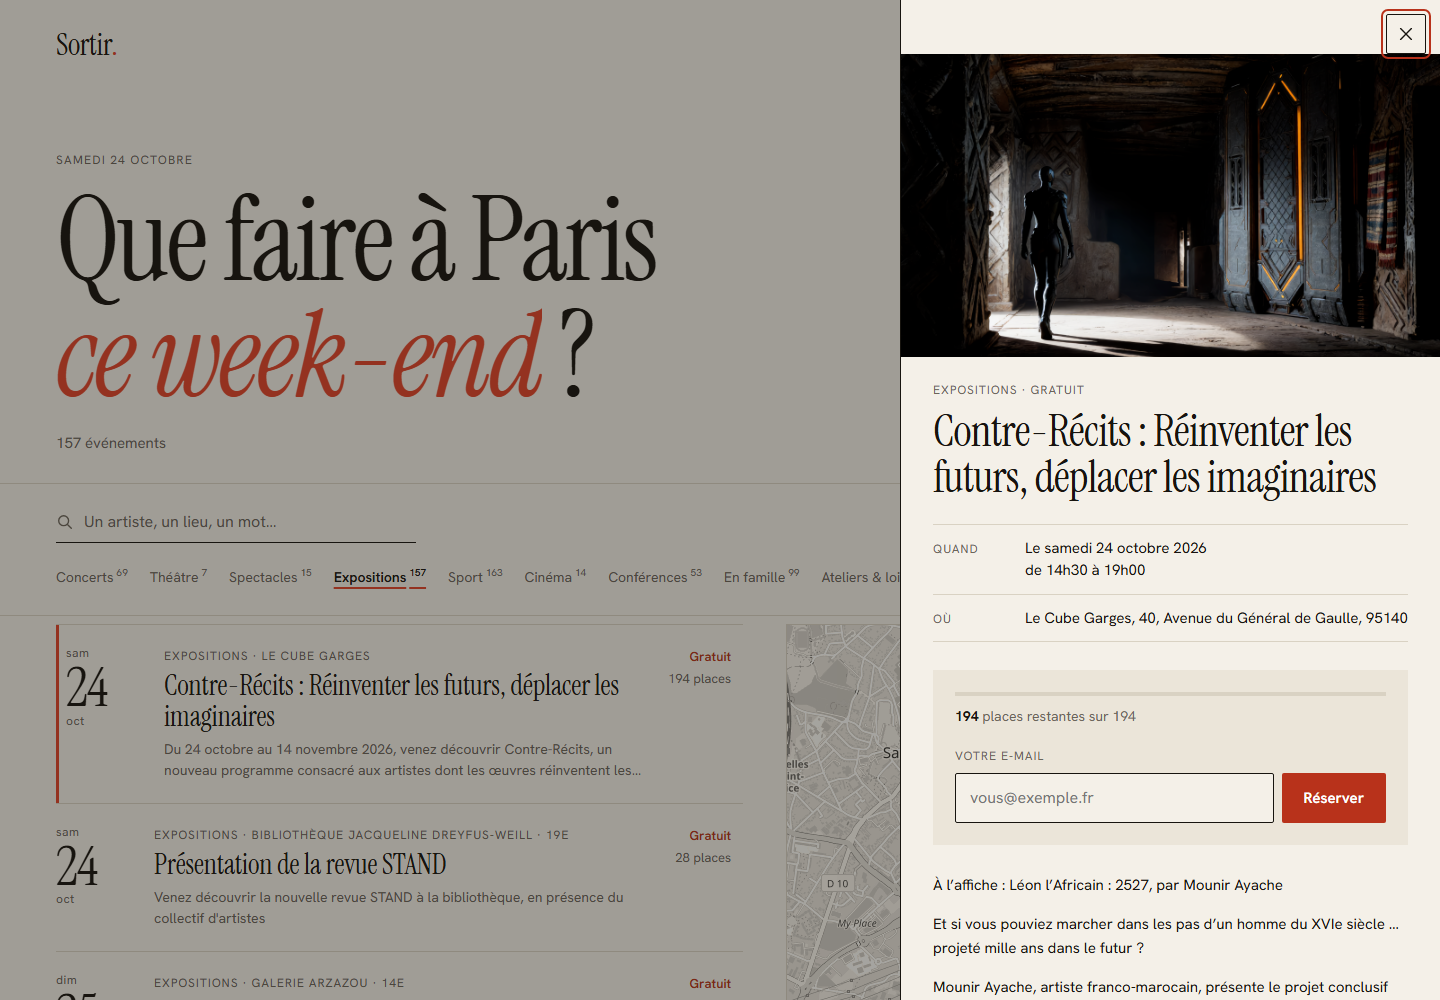
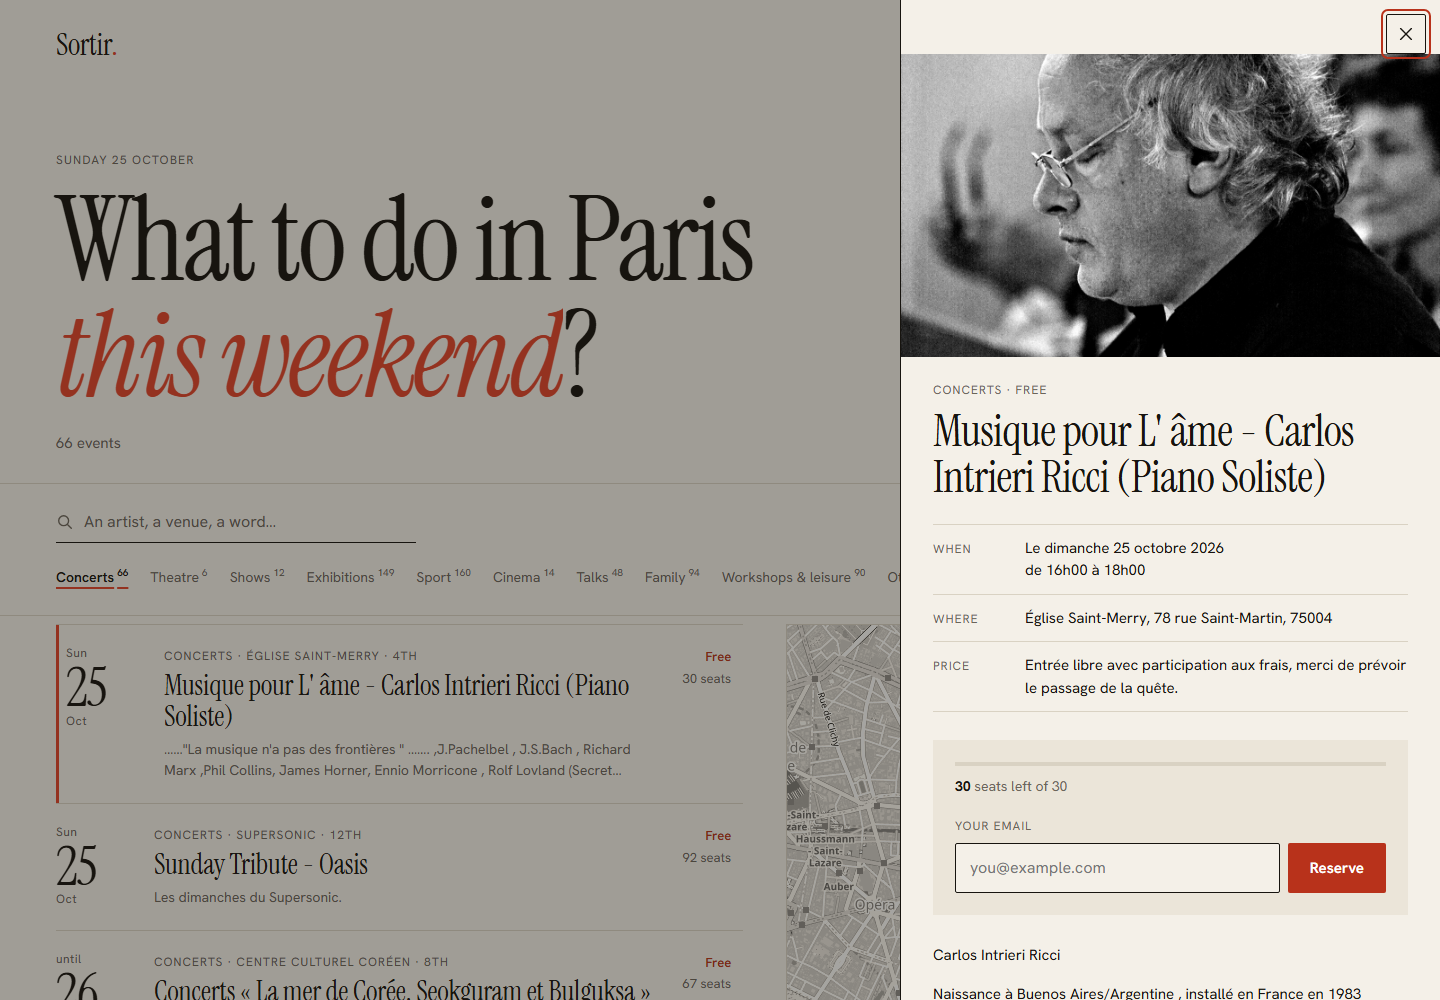
Document translations and refresh screenshots

diff --git a/README.md b/README.md
@@ -2,11 +2,15 @@
 
 Find what to do in Paris: concerts, theatre, exhibitions, sport. Filter by date, category, price or distance, see it on a map, and **reserve a seat**.
 
+Available in **French and English** (switch at the top right).
+
 Real data from [Paris Open Data](https://opendata.paris.fr/explore/dataset/que-faire-a-paris-/) (about 3,000 upcoming events).
 
-![Home](docs/screenshots/home.png)
+| Français | English |
+|---|---|
+| ![Home in French](docs/screenshots/home.png) | ![Home in English](docs/screenshots/home-en.png) |
 
-|  |  |
+| Event detail and reservation | Mobile |
 |---|---|
 | ![Event detail with reservation](docs/screenshots/detail.png) | ![Mobile](docs/screenshots/mobile.png) |
 
@@ -31,6 +35,8 @@ cd backend
 uv run python -m app.demo.race
 ```
 
+The demo event is deleted afterwards, so it never appears in the real list.
+
 ```
 answered in 0.98s: {'booked': 10, 'sold_out': 90}
 database: seats_taken=10, booking rows=10 (capacity 10)
@@ -49,6 +55,7 @@ How it works, in one line: **one atomic `UPDATE ... WHERE seats_taken < capacity
 | Python tooling | **uv** | One fast tool for Python, venv and a lockfile. Reproducible installs. |
 | Frontend | **React + Vite + TypeScript** | A SPA is enough here (no login, no SEO need). |
 | Data fetching | TanStack Query | Caching and cancellation without hand-written effects. |
+| Languages | Small typed FR/EN layer (no library) | Missing translations fail at compile time. See [decisions](docs/DECISIONS.md#11-translations-french-and-english-with-a-small-typed-layer). |
 | Map | Leaflet + OpenStreetMap | Free, no API key. |
 | Delivery | Docker Compose, GitHub Actions | One command to run. CI tests against a real CockroachDB. |
 
@@ -84,14 +91,14 @@ backend/app/
   db.py        connection pool + transaction retry
   schema.sql   tables and the constraints that protect reservations
 backend/tests/ 27 tests: normalisation, search, booking, concurrency
-frontend/src/  api/, hooks/, components/, lib/ (pure, tested), styles/
+frontend/src/  api/, hooks/, components/, i18n/ (FR and EN text), lib/ (pure, tested), styles/
 docs/          ARCHITECTURE.md (system design), DECISIONS.md
 .claude/skills project rules for AI-assisted work (see below)
 ```
 
 ## What is real, and what is not
 
-- **Real:** events, dates, venues, prices, coordinates and images come from Paris Open Data.
+- **Real:** events, dates, venues, prices, coordinates and images come from Paris Open Data. Event titles and descriptions are published in French, so they stay in French even in the English interface.
 - **Not real:** seat capacity. The open data has none, so each event gets a stable fake capacity (20 to 200). Reservations demonstrate correct concurrency, they are not real ticketing. There is no login: a reservation is identified by email only.
 
 ## Next steps

diff --git a/docs/DECISIONS.md b/docs/DECISIONS.md
@@ -86,3 +86,20 @@ It is not part of the API process. API restarts never trigger a heavy import, a 
 | Email confirmation | Needs an email provider. The retry-safe transaction is already designed so sending would happen **after** commit. |
 | Scheduled re-ingestion | One command today. A cron or CI schedule is a one-line addition. |
 | End-to-end browser tests | Backend and logic are covered. A Playwright test of the booking flow is the next test to add. |
+
+## 11. Translations: French and English with a small typed layer
+
+**Chosen.** About 120 lines of our own code in `frontend/src/i18n/`: one file of messages per language, a `t()` function, a `tp()` function for plurals, and a FR | EN switch.
+
+**Why not a library (react-i18next, FormatJS).** We have about 100 short strings and two languages. A library adds a dependency, a runtime loader and a config for little gain. Our version also gives something libraries do not by default: **`en` is typed as `Record<MessageKey, string>`, so the project does not compile if a key is missing in one language.** A test also checks that `{placeholders}` match and every plural has both forms.
+
+**How it works.**
+- Plurals use the browser's `Intl.PluralRules`, so each language follows its own rule (French says "0 événement", English says "0 events").
+- Dates, numbers and ordinals use `Intl` too (`sam. 7 nov.` and `Sat 7 Nov`, `2 960` and `2,960`, `9e` and `9th`). Dates always show Paris time.
+- The start language is `?lang=` in the URL, then the saved choice, then the browser language. `<html lang>` and the page title follow it.
+- Category names are translated in the browser from the category *slug*. The API keeps its French `label` as a fallback for other clients and for any new category the browser does not know yet.
+- Booking errors: the API returns a stable `code` (`sold_out`...). The wording is ours, in the visitor's language. The English `message` from the API is never shown to users.
+
+**What is not translated, on purpose.** Event titles and descriptions come from Paris Open Data in French. Machine-translating third-party text would risk wrong information (dates, prices), so we show it as published and mark it `lang="fr"` so screen readers pronounce it correctly. The English footer says so.
+
+**Cost.** Adding a third language means one more message file and one more entry in `LANGS`. Right-to-left languages would also need layout work.

diff --git a/CLAUDE.md b/CLAUDE.md
@@ -16,6 +16,7 @@ both succeed. That is the technical heart of the project.
 | Frontend   | React + Vite + TypeScript    | A SPA is enough (no SEO need). Simple, fast dev loop. |
 | Data fetch | TanStack Query               | Caching, dedupe, cancellation, retries without hand-written effects. |
 | Animation  | motion (framer-motion)       | Layout animations and shared-element transitions. |
+| Languages  | own typed FR/EN layer        | ~100 strings, two languages. Missing keys fail the build. |
 | Map        | Leaflet + OpenStreetMap      | Free, no API key (tiles muted with a CSS filter). |
 | Deploy     | Docker Compose, GitHub Actions | `docker compose up` runs everything. |
 
@@ -48,7 +49,7 @@ backend/app/        main.py, config.py, db.py (pool + retry), schema.sql
   ingest/           client (HTTP), normalize (pure functions), runner (upsert)
   demo/race.py      concurrency demo
 backend/tests/
-frontend/src/       api/, components/, hooks/, styles/
+frontend/src/       api/, components/, hooks/, i18n/, lib/, styles/
 docs/               ARCHITECTURE.md, DECISIONS.md
 .claude/skills/     project rules (read the relevant one before editing)
 ```
@@ -72,6 +73,7 @@ docs/               ARCHITECTURE.md, DECISIONS.md
 3. Raw parameterised SQL only. Never format values into SQL strings.
 4. Never render third-party HTML. Ingestion converts HTML to plain text.
 5. UI follows `.claude/skills/design-system/SKILL.md`. No new colors/fonts outside the tokens.
+   All user-facing text goes through `src/i18n/messages.ts` in French **and** English. No hard-coded strings.
 6. Every behaviour change ships with a test. Concurrency tests run against a real CockroachDB, never mocks.
 7. Docs are for a newcomer: short sentences, say *why*, no jargon without a definition.
 8. Small commits, imperative messages (`Add ...`, `Fix ...`). Run lint + tests first.

diff --git a/.claude/skills/frontend-react/SKILL.md b/.claude/skills/frontend-react/SKILL.md
@@ -27,7 +27,14 @@ goal, Next.js is the natural migration (listed in the roadmap).
 - Every async view has loading, empty, and error states, all designed (see design-system skill).
 - Respect `prefers-reduced-motion`: animations collapse to opacity changes.
 - Plain CSS with custom properties (tokens). No CSS framework, no UI kit.
-- UI text is French. Code, comments and docs are English.
+- **No hard-coded user-facing text.** Every string lives in `src/i18n/messages.ts` in **both** French and
+  English. Use `t('key')`, and `tp('base', n)` for plurals (keys `base_one` and `base_other`). TypeScript fails the build if
+  one language is missing a key, and `i18n.test.ts` checks placeholders and plural forms.
+- Format dates, numbers and ordinals through `lib/format.ts` (it uses `Intl` with the current language).
+  Never write `'fr-FR'` or `toLocaleString()` in a component.
+- Event titles and descriptions come from Paris Open Data in French: render them with `lang="fr"`, do not translate them.
+- Show server errors by their `code` mapped to a translated message, never the API's English `message`.
+- Code, comments and docs are English.
 
 ## Gotchas
 - **Keep render pure.** No `new Date()` or `Date.now()` during render (oxlint flags it). The URL-state

diff --git a/.claude/skills/design-system/SKILL.md b/.claude/skills/design-system/SKILL.md
@@ -31,7 +31,8 @@ Never hard-code a colour or font in a component. Add a token first, and justify 
 - Border radius is 2px. Pills are not used.
 - Colours: paper, ink, one accent. Categories are plain text, not a rainbow of badges.
 - Generous whitespace, 4px rhythm, a real type scale (12 / 13 / 15 / 28 / display).
-- Copy is specific and calm ("Plus que 3 places", "Rien ne correspond à ces filtres"), never filler.
+- Copy is specific and calm ("Only 3 seats left" / "Plus que 3 places"), never filler. Write both languages with the same tone.
+- Layouts must survive both languages: English is shorter, French is about 15 to 20% longer. Never size a box to one language's text.
 - One signature detail per screen, not ten. Here: the headline rewrites itself with the date filter.
 
 ## Motion
